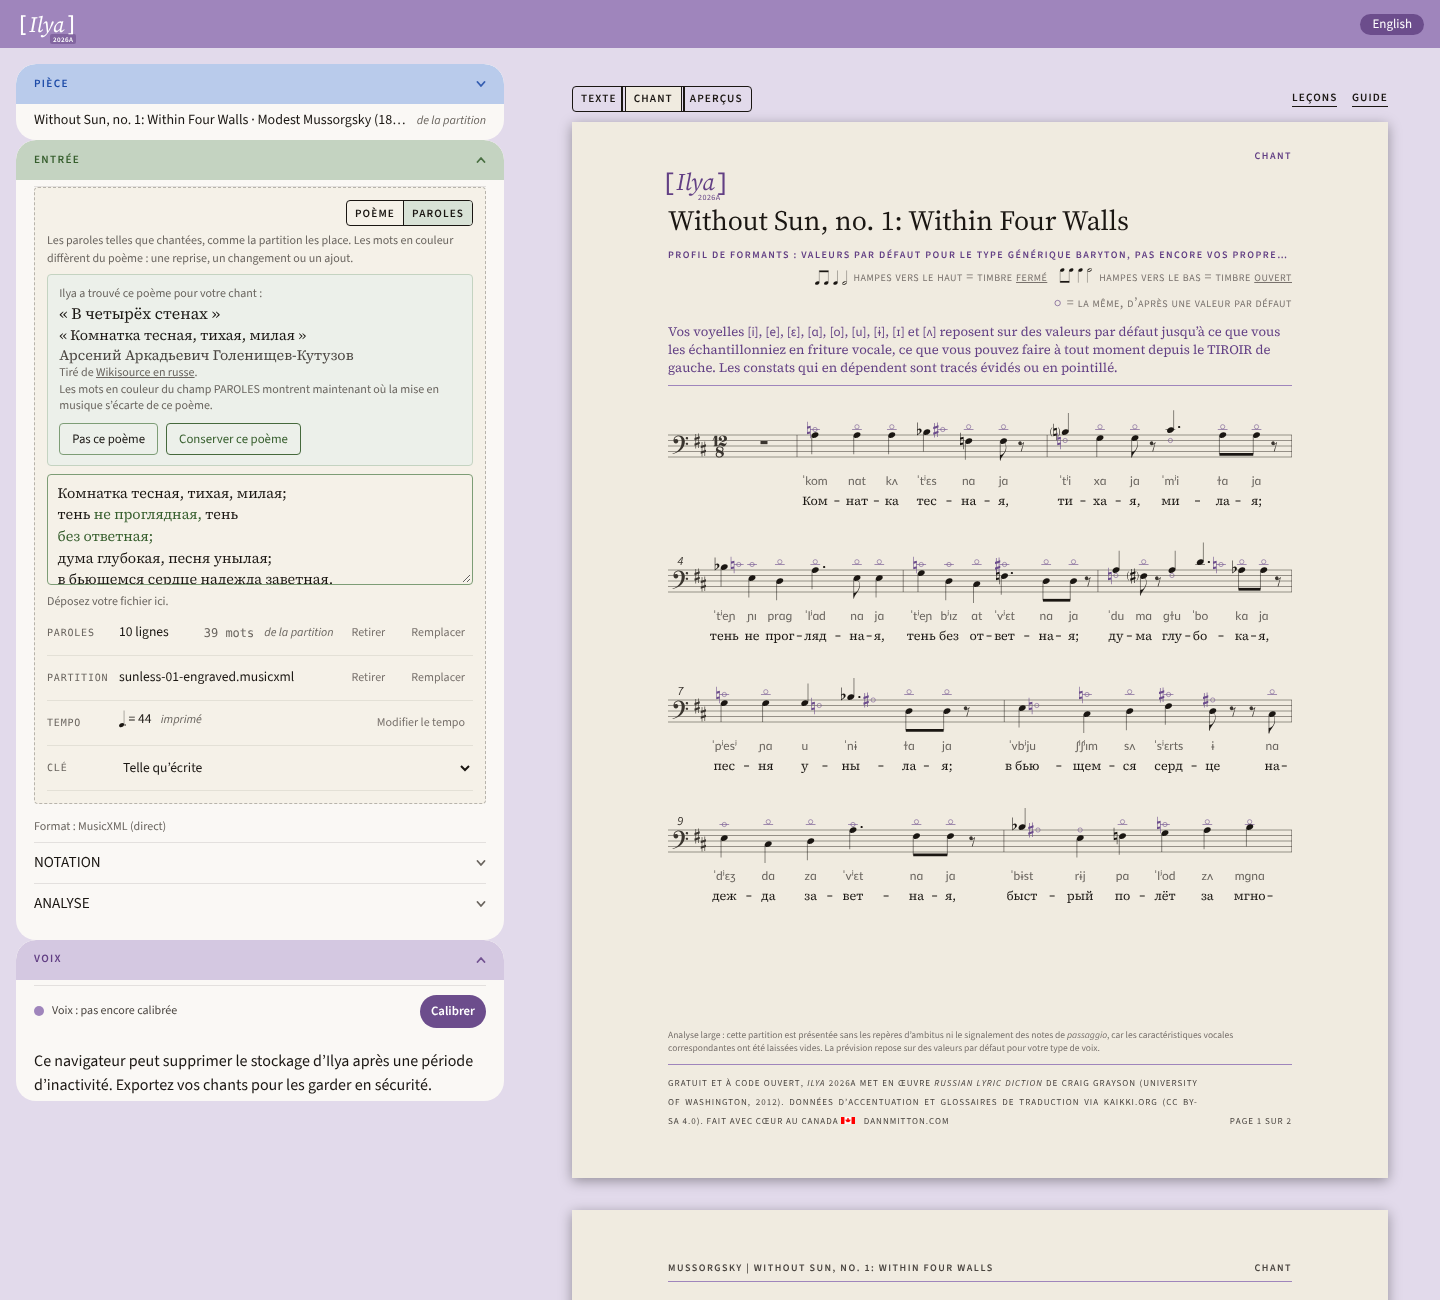
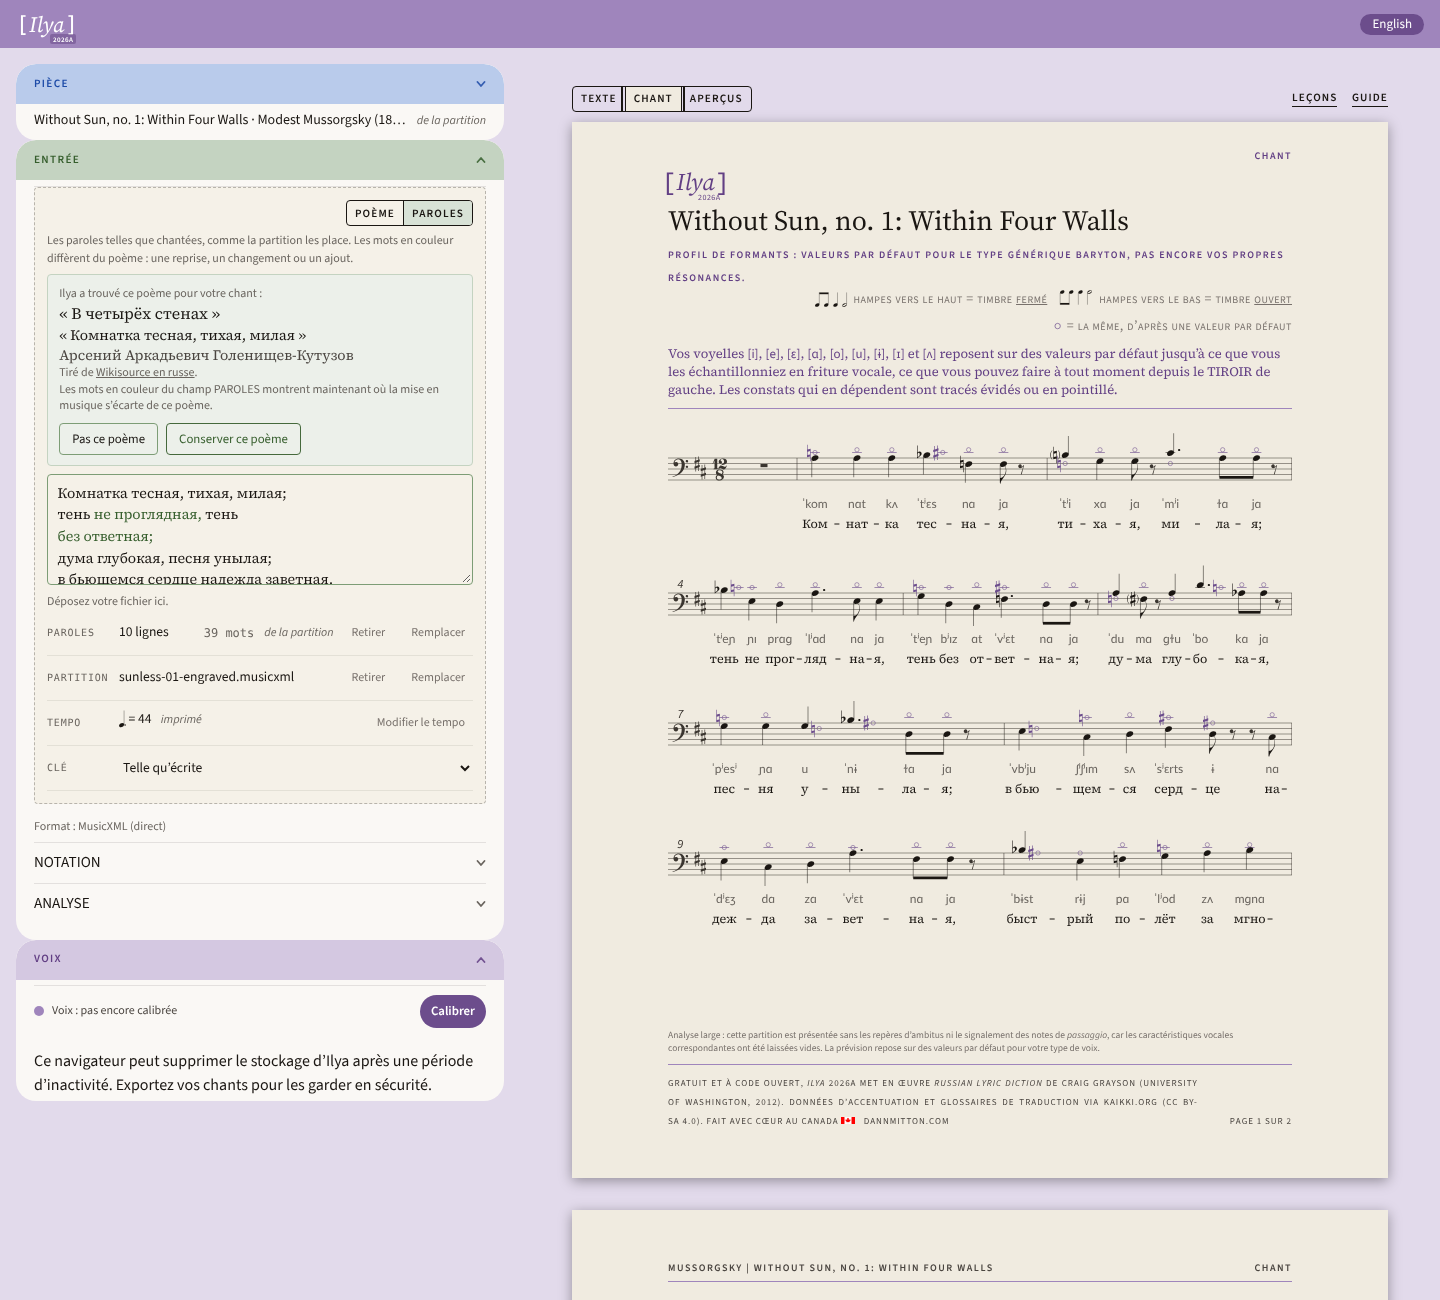
Row 166 step 8: report, step 7 correction, new MELODY screenshots
Claude-Session: https://claude.ai/code/session_01Vk7wM55vdg3gcDddWTK5ME

Changed region(s): [[0.4688, 0.4308, 0.9062, 0.7077], [0.4688, 0.2154, 0.9062, 0.4]]

diff --git a/docs/sessions/report-code-row166-step8_r1_2026-11-10.md b/docs/sessions/report-code-row166-step8_r1_2026-11-10.md
@@ -1,0 +1,62 @@
+# Report: row 166, step 8, from Fable 5.2's review of steps 5 to 7 (Code, cloud lane, r1, 2026-11-10)
+
+Branch `cloud-lane-39`. Merge of `origin/Shane` at `31a3f55` (lane 40): merge commit `b3c79e4`, no conflict. Step 8's code is `eeafca8`.
+
+## (a) One gentle pointer per page
+
+For a voice that is `adapted.generic`, a finding keeps its dashed rule and its placeholder sentence, less the remedy sentence. New key `placeholder.comment.generic`: EN "This finding rests on a placeholder value for {vowel}." FR "Ce constat repose sur une valeur par défaut pour la voyelle {vowel}." That is `placeholder.comment` character for character, less its last sentence in each language; the comment in `i18n.ts` says so, and I wrote no new words. The i18n index is 1,192 keys, `placeholder.` 8.
+- `placeholderCommentSentence(vowel, language, generic = false)` picks the key.
+- Both printers take the flag: INSIGHTS' comments (`singer-blocks.ts`, new `BlockInputs.generic`, passed by `InsightsPane` on the existing `placeholders,` line so the pane stays at 744) and MELODY's watch-list lines (`gatedLines`, new fourth parameter, passed `adapted.generic` by `MarkupPane`). You named only INSIGHTS in the sentence, but cited `gates.ts:320-322`, which is MELODY's printer, so I did both.
+- Tests: `singer-blocks.test.ts` (generic: the sentence less its remedy, EN and FR, no "sample" or "échantillonn" in either; a non-generic voice with a placeholder vowel: the whole sentence, "sample [u] in vocal fry."), and `gates.test.ts` (the same for the watch-list line).
+- Not touched: `placeholder.turns.*` (no remedy in it) and `placeholder.line.*` (the pointer that stays).
+
+## (b) The lede needs a model
+
+`InsightsPane.svelte`: `genericLede(adapted.generic && !!model, ...)`. A generic voice on a page with no score, where there are no findings, prints no lede.
+
+## (c) Two stale comments
+
+`insights/identity.ts` (method line key) and `analysis/analyze-score-adapter.ts` (`composeBroadNote`) now say RATIFIED by Dann 2026-11-10. No other "unratified" remains in `apps/web/src` of mine.
+
+## (d) The placeholder-voice page test
+
+`e2e/pages-without-gaps.test.ts`, last test: a stored voice with `voiceType: 'baritone'` and no formants, French, song 1, MELODY then INSIGHTS. Asserts the page is drawn from placeholder values (the text matches "valeurs par défaut"), nothing reaches a footer on screen and in print (`overlaps`), and printed pages equal sheets on screen.
+
+**It is red here, on INSIGHTS only, and I did not weaken it.** MELODY passes all three assertions. INSIGHTS: nothing reaches a footer, but `page.pdf()` prints **1 page against 2 sheets on screen**. I then measured it directly (dev server, 1440 wide): the placeholder baritone, French and English, and a **calibrated** voice (ten sung vowels, bass, French) all print INSIGHTS as 1 page against 2 sheets, so it is not specific to a placeholder voice. The same measurement printed 3 pages for MELODY of the calibrated voice against 2 sheets (the known `print-pages` red, expected 2, received 3), and toggling the print media emulation changes the count again (1 for every case). So `page.pdf()`'s page count is not stable in this sandbox. Whether this is Chromium 1243 (the build here, not the 1208 the repository expects) or a real print defect on multi-page INSIGHTS is NOT ESTABLISHED. It needs the same test on CI's Chromium.
+
+## (e) Corrections and screenshots
+
+- `report-code-row166-step7_r1_2026-11-10.md` now says the French subtitle is **2 lines at 390** (its picture shows two). My script's height-over-line-height count said 1 there; why it miscounted is not established. The correction is marked in the report.
+- The four full-page MELODY screenshots from step 6 (`baritone-melody-en.png`, `-fr.png`, `baritone-melody-raw-en.png`, `-raw-fr.png`) are replaced with new ones from this build (generic baritone, first visit, no stored data). The French one shows the subtitle wrapped whole on two lines, the legend without a filled head, and the broad note with its ratified last sentence. The INSIGHTS pair was re-taken by the same script.
+
+## (f) The eight gates, on the merged tip `b3c79e4`
+
+| Gate | Result |
+| --- | --- |
+| 1 phonology | 456 passed |
+| 2 dictionary | 248 passed |
+| 3 web check | 0 errors, 12 warnings |
+| 4 web tests | 4772 passed, 1 skipped (the merge brought lane 40's tests; mine add three) |
+| 5 score-parser | 785 passed, 5 skipped |
+| 6 blurb | 168 passed |
+| 7 integration | 125 passed |
+| 8 ratchets | OK, no ceiling touched |
+
+## Playwright, the files you named
+
+Chromium: `pages-without-gaps`, `print-pages`, `markup-pages-lose-no-bars`, `insights-page`, `text-header`, `clef-controls`, `singer-paths`, `insights-key-lines`; phone: `e2e-phone/clef-controls`. Run with `PW_CHROMIUM_PATH=/opt/pw-browsers/chromium`, `--trace off`: **73 passed, 4 failed** (18.3 minutes).
+
+| Red | Known? |
+| --- | --- |
+| `insights-page.test.ts:95` the page runs the frame... (`order` `[-1,503,886]`) | Yes: one of the 11 red at the start of the lane and at the end of step 4 |
+| `print-pages.test.ts:20` (markup expected 2, received 3) | Yes, the same |
+| `singer-paths.test.ts:169` Learn and Guide | Yes, the same |
+| `pages-without-gaps.test.ts:227` my new placeholder-voice test (INSIGHTS print count) | **No: new, mine**, see (d) |
+
+"Known" is against the 11 reds I recorded on this lane at the start (step 4's table). I did not run Shane's own list. `clef-controls` (both projects), `text-header`, `markup-pages-lose-no-bars`, `insights-key-lines`, and every other test in `pages-without-gaps` passed.
+
+## What Code could not establish
+
+- Whether the INSIGHTS print count (1 for 2 sheets) is Chromium 1243 or a defect (see (d)).
+- The 11-reds comparison above is against my own start list, not Shane's.
+- The new generic-sentence wording on a rendered finding: song 1 fires no comment without a typed passaggio (step 2), so no screenshot shows the shortened sentence; it is pinned by the block-level tests.

diff --git a/docs/sessions/report-code-row166-step7_r1_2026-11-10.md b/docs/sessions/report-code-row166-step7_r1_2026-11-10.md
@@ -6,7 +6,7 @@ Branch `cloud-lane-39`.
 
 Change: `apps/web/src/lib/components/Paper/TitleHeader.svelte`, the `.metadata-line` rule only. `white-space: nowrap; overflow: hidden; text-overflow: ellipsis` became `white-space: normal; overflow-wrap: break-word`. Nothing else in the file moved, and no string changed. The rule is the one every subtitle form uses (named subtitle, "your voice" subtitle, the placeholder subtitle, and the same class on the composer and attribution lines), so no form is cut with an ellipsis; a line that fits is unchanged.
 
-Measured on the live page (generic baritone, a stored voice with a declared type and no samples, song 1): the French subtitle is 2 lines at 1440 wide and 1 line at 390, computed `text-overflow` is not `ellipsis`, and the line is not clipped (`scrollWidth` is not over `clientWidth`). The English subtitle is 1 line at both. The legend stays inside the header's box at both widths and both languages (its right edge equals the header's).
+Measured on the live page (generic baritone, a stored voice with a declared type and no samples, song 1): the French subtitle is 2 lines at 1440 wide and **2 lines at 390** (CORRECTED in step 8: this report first said 1 line at 390, taken from my script's height-over-line-height count, which was wrong at 390; the 390 picture shows two lines, « ... PAS ENCORE VOS PROPRES / RÉSONANCES. »; why the script miscounted there is NOT ESTABLISHED), computed `text-overflow` is not `ellipsis`, and the line is not clipped (`scrollWidth` is not over `clientWidth`). The English subtitle is 1 line at both, as its pictures show. The legend stays inside the header's box at both widths and both languages (its right edge equals the header's).
 
 Screenshots, in `docs/sessions/row166-screens_2026-11-09/`, of the header element only:
 `baritone-melody-header-en-1440.png`, `baritone-melody-header-fr-1440.png`, `baritone-melody-header-en-390.png`, `baritone-melody-header-fr-390.png`. The French at 1440 reads « PROFIL DE FORMANTS : VALEURS PAR DÉFAUT POUR LE TYPE GÉNÉRIQUE BARYTON, PAS ENCORE VOS PROPRES / RÉSONANCES. », whole, on two lines, with the legend under it.
